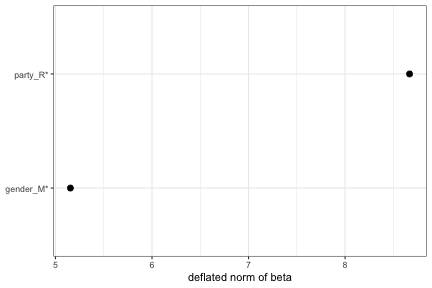
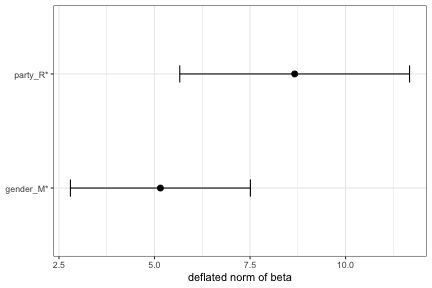
Expand the embedding-regression tutorial vignette (v3.3.4)
Cover the features added since the vignette was first written: jackknife
confidence intervals in plot() (the jackknife is now fast), a
convergence_diagnostic() section for judging whether enough instances are
available, discriminant nearest neighbours via get_nns_ratio() with
p.adjust.method for multiple comparisons, and SIF weighting.

Verified with devtools::check(vignettes = TRUE): 0 errors / 0 warnings / 0 notes.

diff --git a/vignettes/embedding-regression.md b/vignettes/embedding-regression.md
@@ -3,10 +3,13 @@ Embedding Regression with conText
 
 This tutorial walks through the **embedding regression** workflow in
 **conText** end to end: from a tokenized corpus to a fitted model, to
-reading and visualizing the results, predicting embeddings for covariate
-profiles, and tracing how a term’s usage changes along a continuous
-covariate. It complements the [Quick Start Guide](quickstart.md), which
-focuses on the descriptive (“nearest neighbours”) tools.
+reading and visualizing the results, checking whether you have enough
+data, predicting embeddings for covariate profiles, tracing usage along
+a continuous covariate, and finding the neighbours that most
+discriminate groups. It complements the [Quick Start
+Guide](quickstart.md), which focuses on the descriptive (“nearest
+neighbours”) tools and on building the ingredients (local embeddings and
+the transformation matrix).
 
 We use the small objects bundled with the package – `cr_sample_corpus`,
 `cr_glove_subset` and `cr_transform` – so everything here is
@@ -50,7 +53,7 @@ model <- conText(immigration ~ party + gender,
                  data = toks,
                  pre_trained = cr_glove_subset,
                  transform = TRUE, transform_matrix = cr_transform,
-                 jackknife = FALSE,        # set TRUE to add confidence intervals (slower)
+                 jackknife = TRUE,         # confidence intervals (the jackknife is fast)
                  permute = TRUE, num_permutations = 100,
                  verbose = FALSE)
 ```
@@ -63,7 +66,7 @@ Female).
 # Reading the results
 
 The fitted object is a matrix of coefficients (one row per covariate,
-including the intercept). Three methods make it easy to inspect:
+including the intercept). Three methods make it easy to inspect.
 
 `summary()` prints the model dimensions and the normed-coefficient
 table:
@@ -75,14 +78,15 @@ summary(model)
     ## conText embedding regression
     ##   coefficients (incl. intercept): 3 | embedding dimensions: 300 | features: 488
     ## 
-    ## # A tibble: 2 x 8
+    ## # A tibble: 2 x 11
     ##   coefficient normed.estimate.orig normed.estimate.defl~1 normed.estimate.beta~2
     ##   <chr>                      <dbl>                  <dbl>                  <dbl>
     ## 1 party_R                    10.1                    8.67                   1.47
     ## 2 gender_M                    6.91                   5.15                   1.75
     ## # i abbreviated names: 1: normed.estimate.deflated,
     ## #   2: normed.estimate.beta.error.null
-    ## # i 4 more variables: n <int>, n_obs <int>, covariate_mean <dbl>, p.value <dbl>
+    ## # i 7 more variables: n <int>, n_obs <int>, covariate_mean <dbl>,
+    ## #   std.error <dbl>, lower.ci <dbl>, upper.ci <dbl>, p.value <dbl>
 
 `tidy()` returns that table as a tibble (handy for further manipulation
 or plotting):
@@ -91,25 +95,51 @@ or plotting):
 tidy(model)
 ```
 
-    ## # A tibble: 2 x 8
+    ## # A tibble: 2 x 11
     ##   coefficient normed.estimate.orig normed.estimate.defl~1 normed.estimate.beta~2
     ##   <chr>                      <dbl>                  <dbl>                  <dbl>
     ## 1 party_R                    10.1                    8.67                   1.47
     ## 2 gender_M                    6.91                   5.15                   1.75
     ## # i abbreviated names: 1: normed.estimate.deflated,
     ## #   2: normed.estimate.beta.error.null
-    ## # i 4 more variables: n <int>, n_obs <int>, covariate_mean <dbl>, p.value <dbl>
+    ## # i 7 more variables: n <int>, n_obs <int>, covariate_mean <dbl>,
+    ## #   std.error <dbl>, lower.ci <dbl>, upper.ci <dbl>, p.value <dbl>
 
-`plot()` shows the deflated norm of each coefficient. Coefficients
-significant at the 0.05 level (using the permutation p-values) are
-marked with a `*`; when the model is fit with `jackknife = TRUE`,
-confidence intervals are drawn as well.
+`plot()` shows the deflated norm of each coefficient with its confidence
+interval (from the jackknife). Coefficients significant at the 0.05
+level (using the permutation p-values) are marked with a `*`.
 
 ``` r
 plot(model)
 ```
 
 ![](embedding-regression_files/figure-gfm/unnamed-chunk-6-1.png)<!-- -->
+
+# Do you have enough instances?
+
+ALC is often used for rare terms, where a natural question is whether
+you have enough instances of the focal term for a stable embedding.
+`convergence_diagnostic()` answers this: it embeds the term from random
+sub-samples of increasing size and measures how close each sub-sample
+embedding is (cosine similarity) to the full-sample embedding. The curve
+flattening towards 1 means the embedding has stabilized.
+
+``` r
+immig_toks <- tokens_context(toks, pattern = "immigration", window = 6L, verbose = FALSE)
+immig_dem <- dem(dfm(immig_toks), pre_trained = cr_glove_subset,
+                 transform = TRUE, transform_matrix = cr_transform, verbose = FALSE)
+
+set.seed(2021L)
+conv <- convergence_diagnostic(immig_dem, n_replicates = 15)
+
+ggplot(conv, aes(n, value)) +
+  geom_ribbon(aes(ymin = lower.ci, ymax = upper.ci), alpha = 0.2) +
+  geom_line() + geom_point() +
+  labs(x = "number of instances", y = "cosine similarity to full-sample embedding") +
+  theme_bw()
+```
+
+![](embedding-regression_files/figure-gfm/unnamed-chunk-7-1.png)<!-- -->
 
 # Interaction effects
 
@@ -196,82 +226,89 @@ model_nom <- conText(immigration ~ nominate_dim1,
                      transform = TRUE, transform_matrix = cr_transform,
                      jackknife = FALSE, permute = TRUE, num_permutations = 100,
                      verbose = FALSE)
-```
 
-Predict the ALC embedding at a grid of NOMINATE values, then measure its
-cosine similarity to a few features of interest:
-
-``` r
 grid <- seq(-1, 1, by = 0.2)
 nom_wvs <- predict(model_nom, newdata = data.frame(nominate_dim1 = grid,
                                                    row.names = as.character(grid)))
 
 effects <- cos_sim(nom_wvs, pre_trained = cr_glove_subset,
                    features = c("reform", "enforce"), as_list = FALSE)
-head(effects)
-```
 
-    ##   target feature     value
-    ## 1   -1.0  reform 0.6855243
-    ## 2   -0.8  reform 0.6831449
-    ## 3   -0.6  reform 0.6741428
-    ## 4   -0.4  reform 0.6575746
-    ## 5   -0.2  reform 0.6330861
-    ## 6    0.0  reform 0.6010969
-
-Because `cos_sim()` returns a tidy data frame, plotting the “effect” of
-the covariate is a one-liner:
-
-``` r
 effects %>%
   mutate(nominate = as.numeric(target)) %>%
   ggplot(aes(nominate, value, color = feature)) +
   geom_line() + geom_point() +
-  labs(x = "DW-NOMINATE (dim 1)", y = "cosine similarity to feature",
-       color = NULL) +
+  labs(x = "DW-NOMINATE (dim 1)", y = "cosine similarity to feature", color = NULL) +
   theme_bw()
 ```
 
-![](embedding-regression_files/figure-gfm/unnamed-chunk-12-1.png)<!-- -->
+![](embedding-regression_files/figure-gfm/unnamed-chunk-11-1.png)<!-- -->
 
-# Exploratory tools with uncertainty
+# Discriminant nearest neighbours
 
-Alongside the regression, the `get_*()` wrappers go from a tokenized
-corpus to group-level nearest neighbours / similarities, with bootstrap
-standard errors and confidence intervals. The intervals are standard
-percentile-bootstrap intervals at the requested `confidence_level`
-(e.g. a 95% interval uses the 2.5th and 97.5th percentiles).
+To see which neighbours most *distinguish* two groups, `get_nns_ratio()`
+compares the cosine similarities of each group’s embedding to a set of
+candidate features and returns their ratio, with a permutation p-value
+per feature. Because that p-value is computed for many features at once,
+use `p.adjust.method` to correct for multiple comparisons; an adjusted
+p-value column is then returned alongside the raw one.
 
 ``` r
-immig_toks <- tokens_context(toks, pattern = "immigration", window = 6L, verbose = FALSE)
-
 set.seed(2021L)
-immig_nns <- get_nns(x = immig_toks, N = 5,
-                     groups = docvars(immig_toks, "party"),
-                     candidates = character(0),
-                     pre_trained = cr_glove_subset,
-                     transform = TRUE, transform_matrix = cr_transform,
-                     bootstrap = TRUE, num_bootstraps = 100,
-                     confidence_level = 0.95,
-                     as_list = FALSE)
+immig_party_ratio <- get_nns_ratio(x = immig_toks, N = 5,
+                                   groups = docvars(immig_toks, "party"),
+                                   numerator = "R",
+                                   candidates = immig_dem@features,
+                                   pre_trained = cr_glove_subset,
+                                   transform = TRUE, transform_matrix = cr_transform,
+                                   bootstrap = FALSE,
+                                   permute = TRUE, num_permutations = 100,
+                                   p.adjust.method = "BH",
+                                   verbose = FALSE)
 ```
 
-    ## starting bootstraps 
-    ## done with bootstraps
+    ## NOTE: values refer to the ratio R/D.starting permutations 
+    ## done with permutations
 
 ``` r
-head(immig_nns)
+head(immig_party_ratio)
 ```
 
-    ## # A tibble: 6 x 7
-    ##   target feature        rank value std.error lower.ci upper.ci
-    ##   <fct>  <chr>         <int> <dbl>     <dbl>    <dbl>    <dbl>
-    ## 1 D      immigration       1 0.843   0.0107     0.822    0.865
-    ## 2 D      broken            2 0.675   0.0138     0.647    0.701
-    ## 3 D      comprehensive     3 0.655   0.0141     0.622    0.677
-    ## 4 D      reform            4 0.652   0.0157     0.617    0.676
-    ## 5 D      immigrants        5 0.611   0.0148     0.584    0.638
-    ## 6 R      immigration       1 0.867   0.00927    0.847    0.882
+    ##       feature    value p.value p.value.adjusted  group
+    ## 1     illegal 1.193326    0.00       0.00000000      R
+    ## 2     amnesty 1.190681    0.00       0.00000000      R
+    ## 3        laws 1.183587    0.00       0.00000000      R
+    ## 4 enforcement 1.093526    0.02       0.02571429      R
+    ## 5  immigrants 1.034103    0.24       0.24000000      D
+    ## 6 immigration 1.031344    0.04       0.04500000 shared
+
+# Weighting the context words
+
+By default each context word contributes to the average by its count
+(`weighting = "uniform"`). `dem()` and `conText()` also support
+`weighting = "sif"`, which applies smooth inverse-frequency weighting
+(Arora et al. 2017), downweighting very frequent context words before
+averaging:
+
+``` r
+set.seed(2021L)
+model_sif <- conText(immigration ~ party + gender,
+                     data = toks, pre_trained = cr_glove_subset,
+                     transform = TRUE, transform_matrix = cr_transform,
+                     jackknife = FALSE, permute = FALSE,
+                     weighting = "sif",
+                     verbose = FALSE)
+tidy(model_sif)
+```
+
+    ## # A tibble: 2 x 7
+    ##   coefficient normed.estimate.orig normed.estimate.defl~1 normed.estimate.beta~2
+    ##   <chr>                      <dbl>                  <dbl>                  <dbl>
+    ## 1 party_R                    0.472                  0.304                  0.169
+    ## 2 gender_M                   0.373                  0.162                  0.211
+    ## # i abbreviated names: 1: normed.estimate.deflated,
+    ## #   2: normed.estimate.beta.error.null
+    ## # i 3 more variables: n <int>, n_obs <int>, covariate_mean <dbl>
 
 # Notes on inference and performance
 
@@ -282,13 +319,18 @@ head(immig_nns)
     reported.
 -   **p-values vs. intervals.** `permute = TRUE` gives empirical
     p-values via a permutation test; `jackknife = TRUE` adds standard
-    errors and confidence intervals.
+    errors and confidence intervals. The jackknife is computed
+    analytically, so it is fast even on larger corpora.
 -   **Clustering.** Pass `cluster_variable` to cluster the standard
     errors (e.g. by speaker), so repeated instances from the same unit
     are not treated as independent.
--   **Performance.** The jackknife is leave-one-out, so on large corpora
-    it can be slow; use `jackknife_fraction` to subsample, or
-    `parallel = TRUE` with a registered backend.
+-   **Multiple comparisons.** When testing many features at once
+    (e.g. in `get_nns_ratio()`), use `p.adjust.method` to control the
+    false-positive rate.
+-   **Validate.** A norm being “significant” is a statement about word
+    *usage*, not automatically about your substantive construct –
+    triangulate with nearest neighbours, nearest contexts, and domain
+    knowledge.
 
 # References
 
@@ -299,3 +341,6 @@ Regression: Models for Context-Specific Description and Inference.
 Khodak, M., Saunshi, N., Liang, Y., Ma, T., Stewart, B., and Arora, S.
 (2018). A La Carte Embedding: Cheap but Effective Induction of Semantic
 Feature Vectors. *ACL*.
+
+Arora, S., Liang, Y., and Ma, T. (2017). A Simple but Tough-to-Beat
+Baseline for Sentence Embeddings. *ICLR*.

diff --git a/NEWS.md b/NEWS.md
@@ -1,3 +1,12 @@
+# conText 3.3.4
+
+## Documentation
+
+* Expanded the "Embedding Regression with conText" vignette: jackknife confidence
+  intervals in `plot()`, a `convergence_diagnostic()` section, discriminant nearest
+  neighbours via `get_nns_ratio()` with multiple-comparison correction, and SIF
+  weighting.
+
 # conText 3.3.3
 
 ## Bug fixes